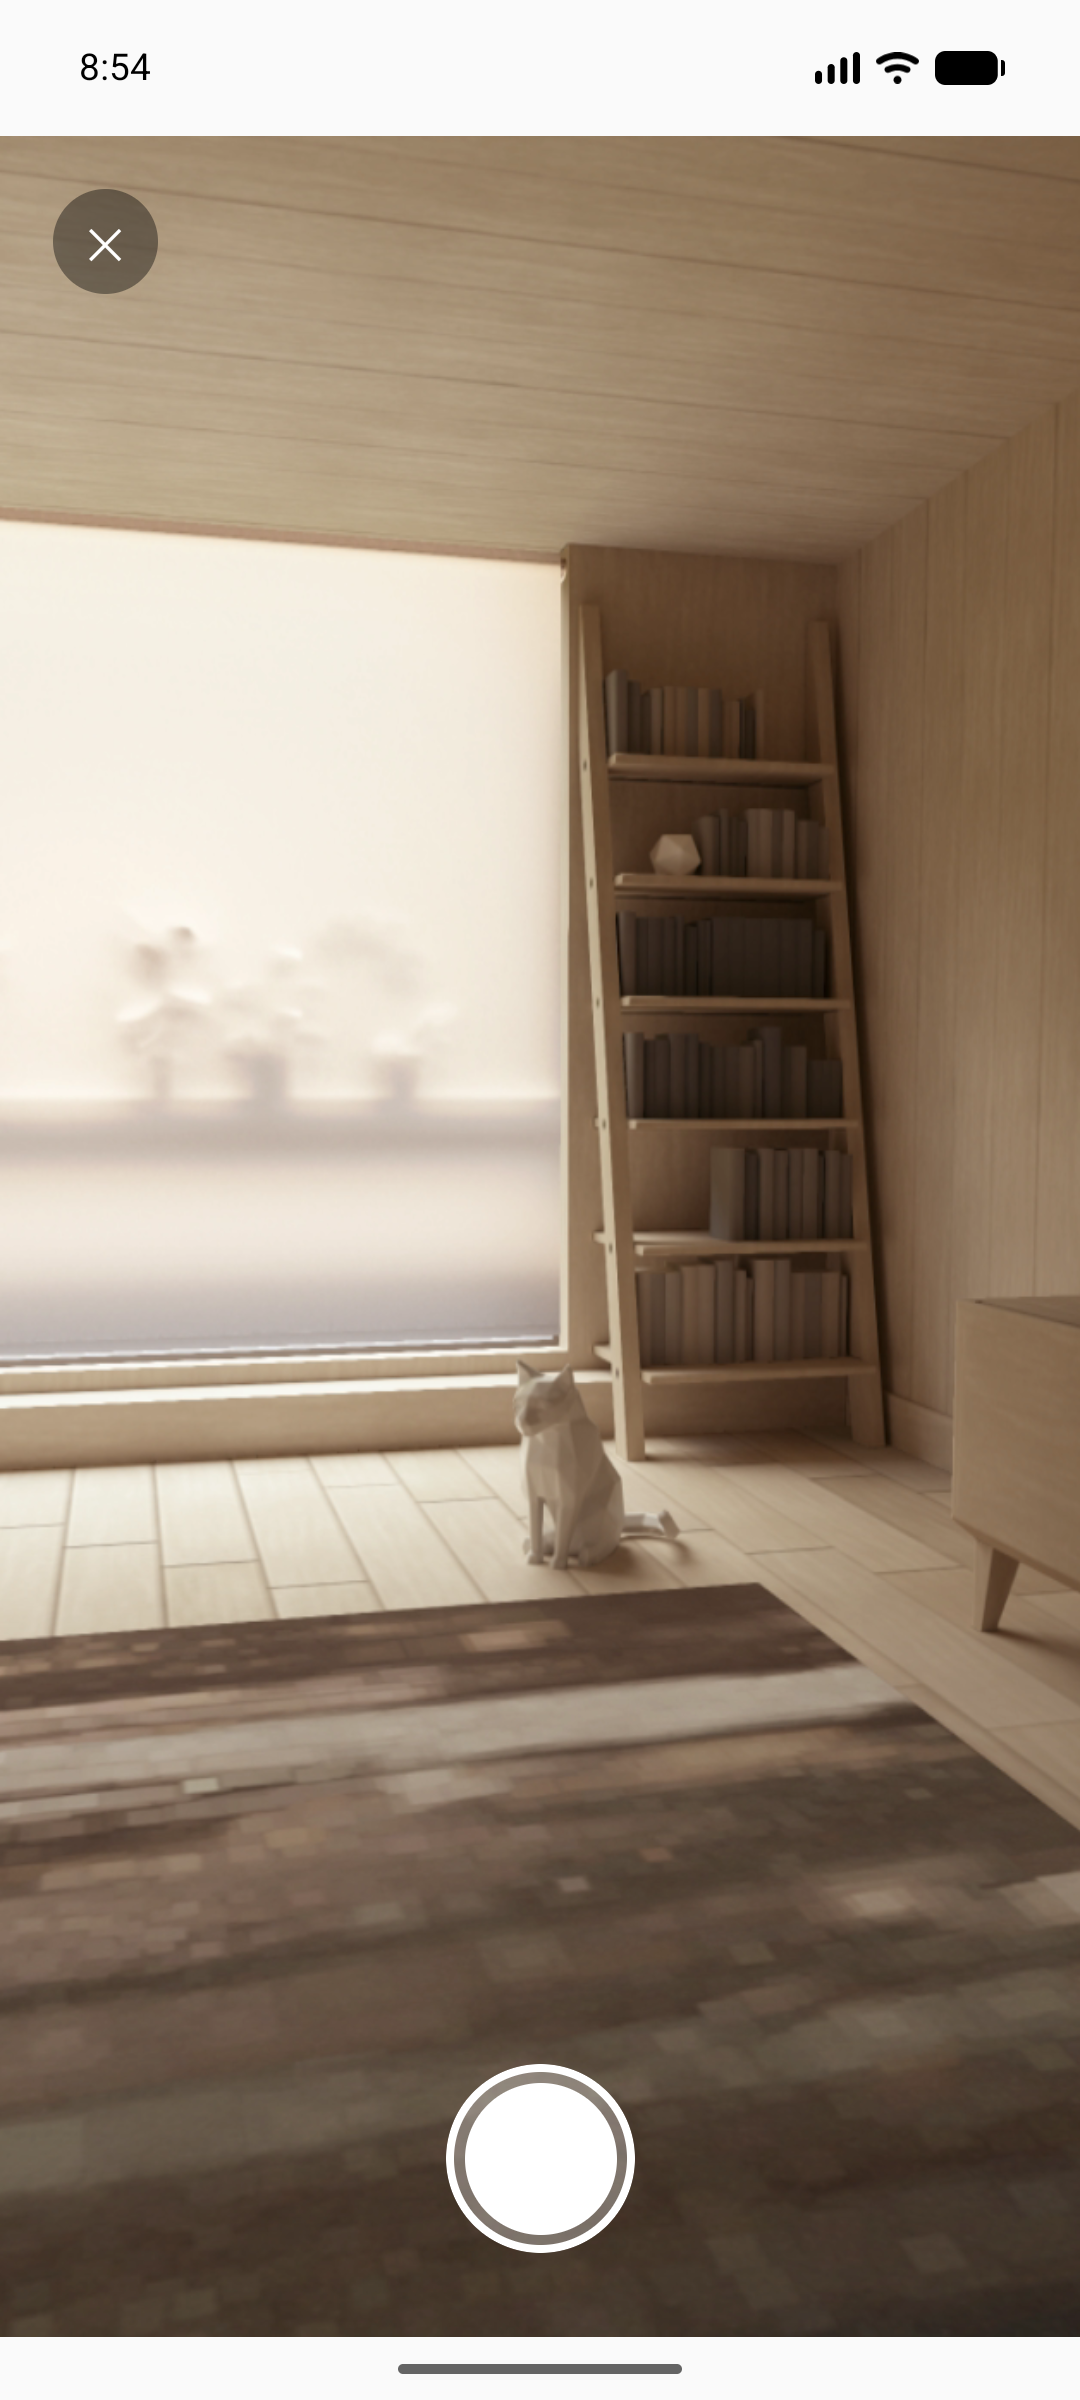
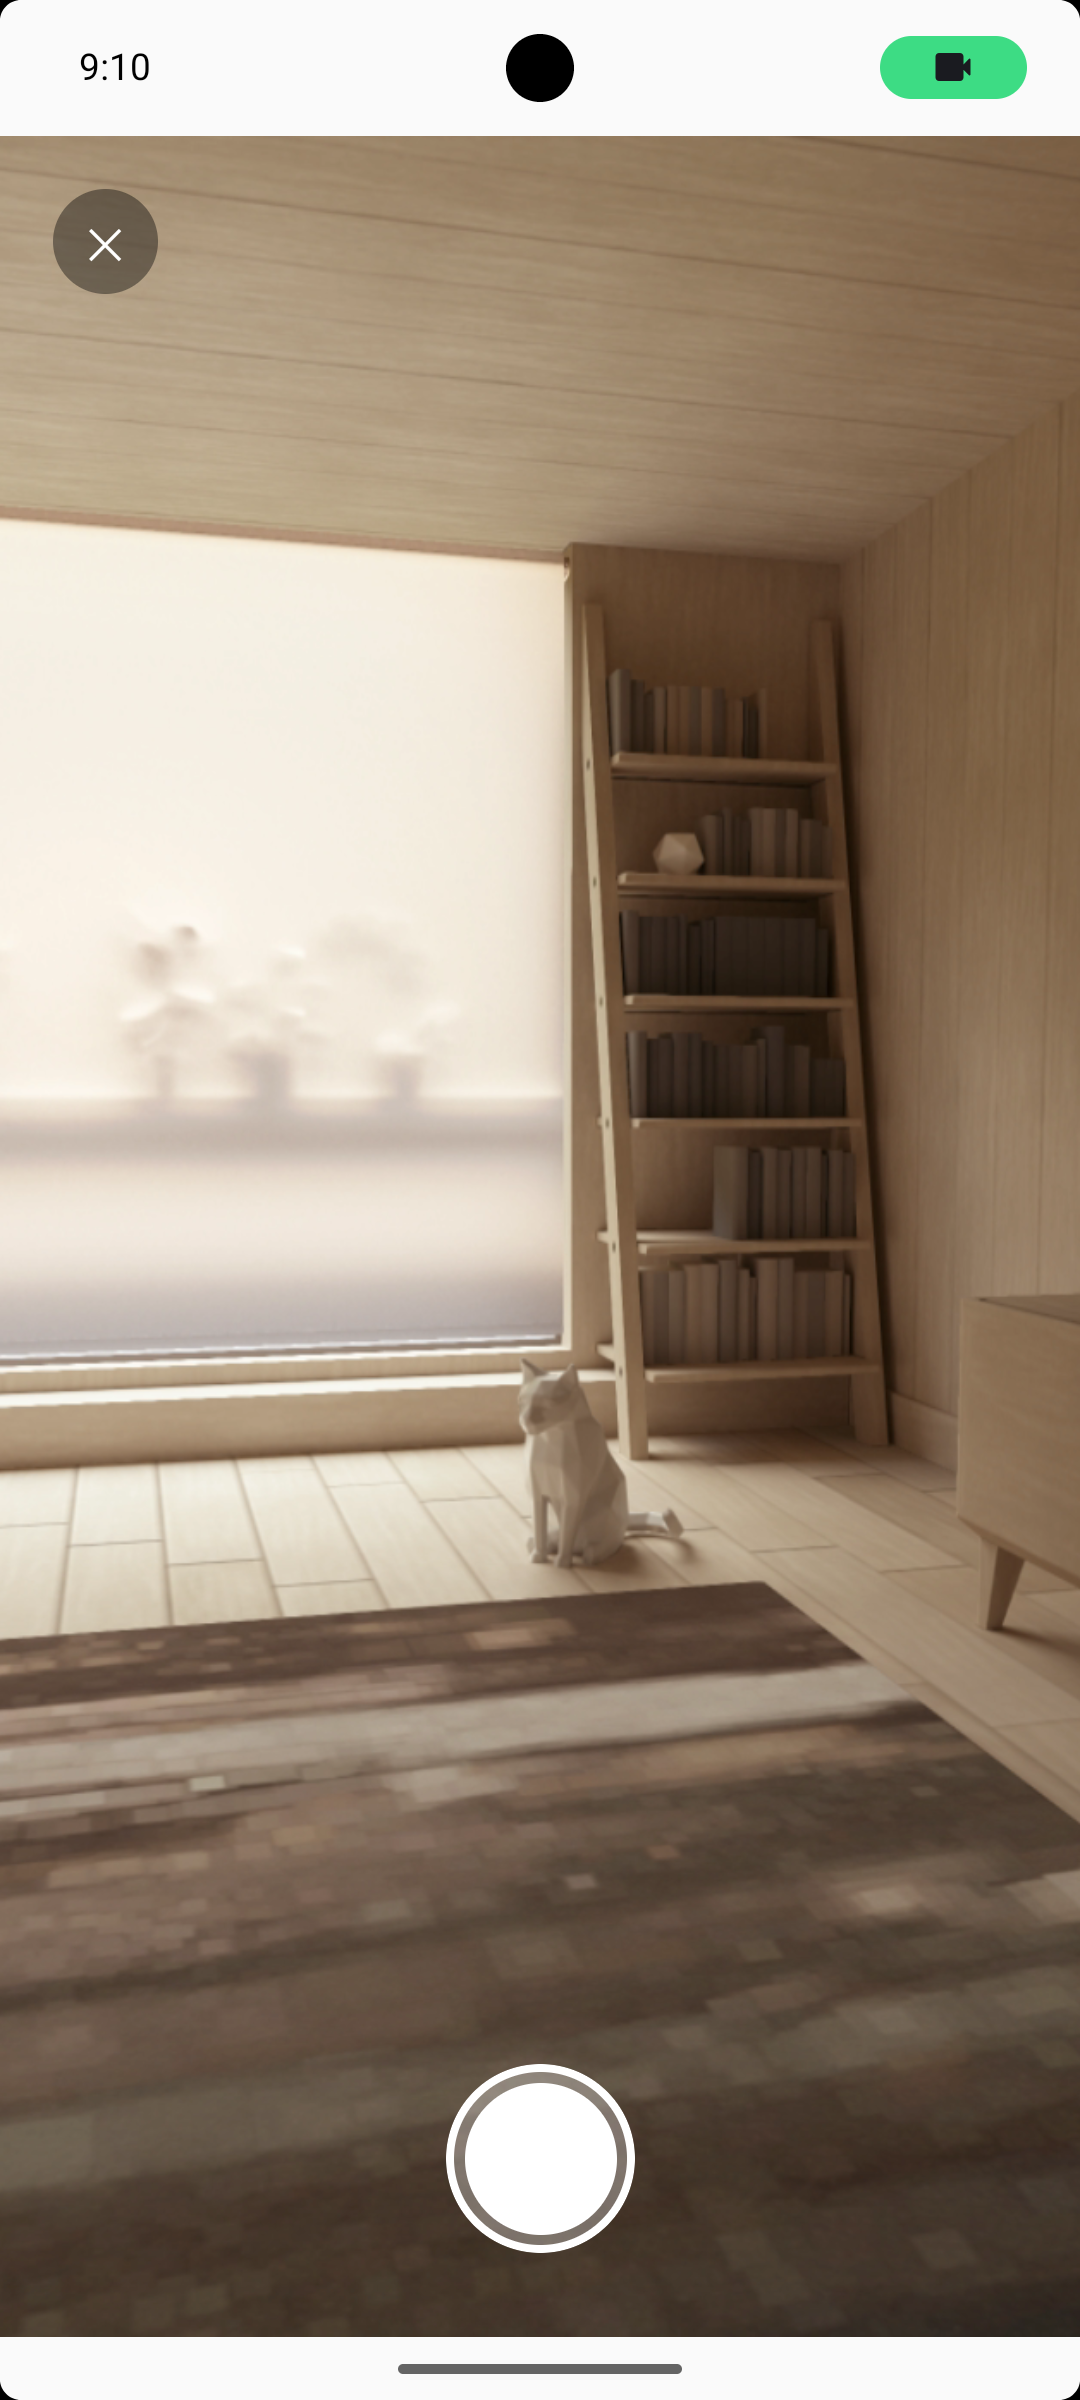
Translate app UI to English

diff --git a/mobile/app/src/main/java/com/kagancankaba/catalens/MainActivity.kt b/mobile/app/src/main/java/com/kagancankaba/catalens/MainActivity.kt
@@ -110,8 +110,8 @@ fun CatalensApp(modifier: Modifier = Modifier) {
                 }
                 result = response
             } catch (e: Exception) {
-                Log.e("Catalens", "istek basarisiz", e)
-                errorMessage = e.message ?: "bilinmeyen hata"
+                Log.e("Catalens", "request failed", e)
+                errorMessage = e.message ?: "unknown error"
             } finally {
                 isLoading = false
             }
@@ -204,7 +204,7 @@ fun HomeScreen(
                 modifier = Modifier.size(width = 140.dp, height = 105.dp),
                 shape = RoundedCornerShape(16.dp)
             ) {
-                Text("Kamera")
+                Text("Camera")
             }
 
             Button(
@@ -212,7 +212,7 @@ fun HomeScreen(
                 modifier = Modifier.size(width = 140.dp, height = 105.dp),
                 shape = RoundedCornerShape(16.dp)
             ) {
-                Text("Galeri")
+                Text("Gallery")
             }
         }
 
@@ -320,11 +320,11 @@ fun ResultDialog(
         onDismissRequest = onDismiss,
         confirmButton = {
             TextButton(onClick = onDismiss) {
-                Text("Kapat")
+                Text("Close")
             }
         },
         title = {
-            Text(if (errorMessage != null) "Hata" else "Sonuç")
+            Text(if (errorMessage != null) "Error" else "Result")
         },
         text = {
             Column {
@@ -351,16 +351,16 @@ fun ResultDialog(
                 }
                 result?.let { response ->
                     response.descriptor?.let { d ->
-                        Text("Marka: ${d.brand}")
-                        Text("Kategori: ${d.category}")
-                        Text("Renk: ${d.colour}")
+                        Text("Brand: ${d.brand}")
+                        Text("Category: ${d.category}")
+                        Text("Colour: ${d.colour}")
                         Spacer(modifier = Modifier.height(8.dp))
                     }
                     if (response.noMatch) {
-                        Text("Eşleşme bulunamadı")
+                        Text("No match found")
                     } else {
                         response.matches.forEach { match ->
-                            Text("${match.brand} ${match.name} - skor: ${"%.2f".format(match.score)}")
+                            Text("${match.brand} ${match.name} - score: ${"%.2f".format(match.score)}")
                         }
                     }
                 }
